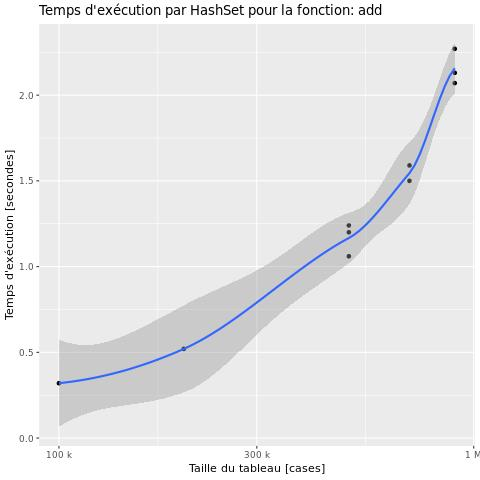
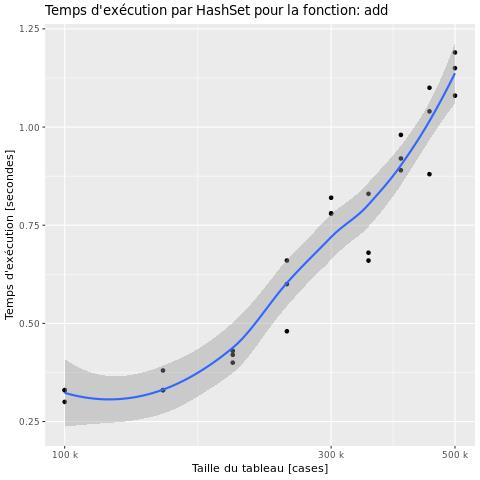
Some tests

diff --git a/README.md b/README.md
@@ -5,7 +5,8 @@
 
 ## Problème
 
-Description du Problème.
+On veut tester les différences de performance entre les différents types de
+l'interface ICollection en Java.
 
 Description de tous les paramètres exploratoires du problème
 
